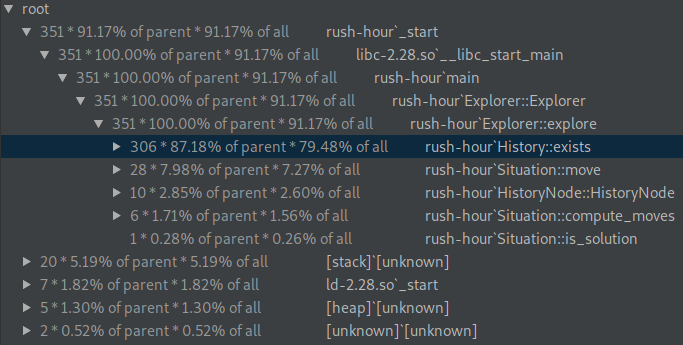
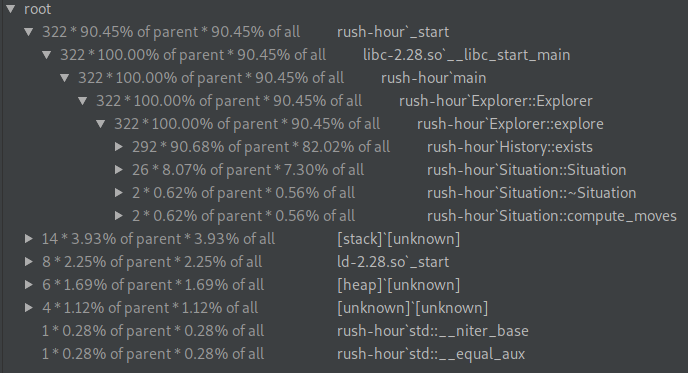
Redo perf measurement and add memory profiling

diff --git a/README.md b/README.md
@@ -2,12 +2,17 @@
 
 Par Guillaume Ortega et Edouard Menayde.
 
-## Performance analysis
+## Performance analysis and memory usage
 
 Using `perf` we can analyse the performance of our program for a given situation to solve.
+
+Using `mprof` (provided by package [http://jmdana.github.io/memprof/](http://jmdana.github.io/memprof/)) we can 
+measure memory usage overtime.
 
 ### v1
 
 ![](doc/perf01.png)
 
 We can see `History:exists` is the function were our program spends most of the time.
+
+![](doc/mprof01.png)
